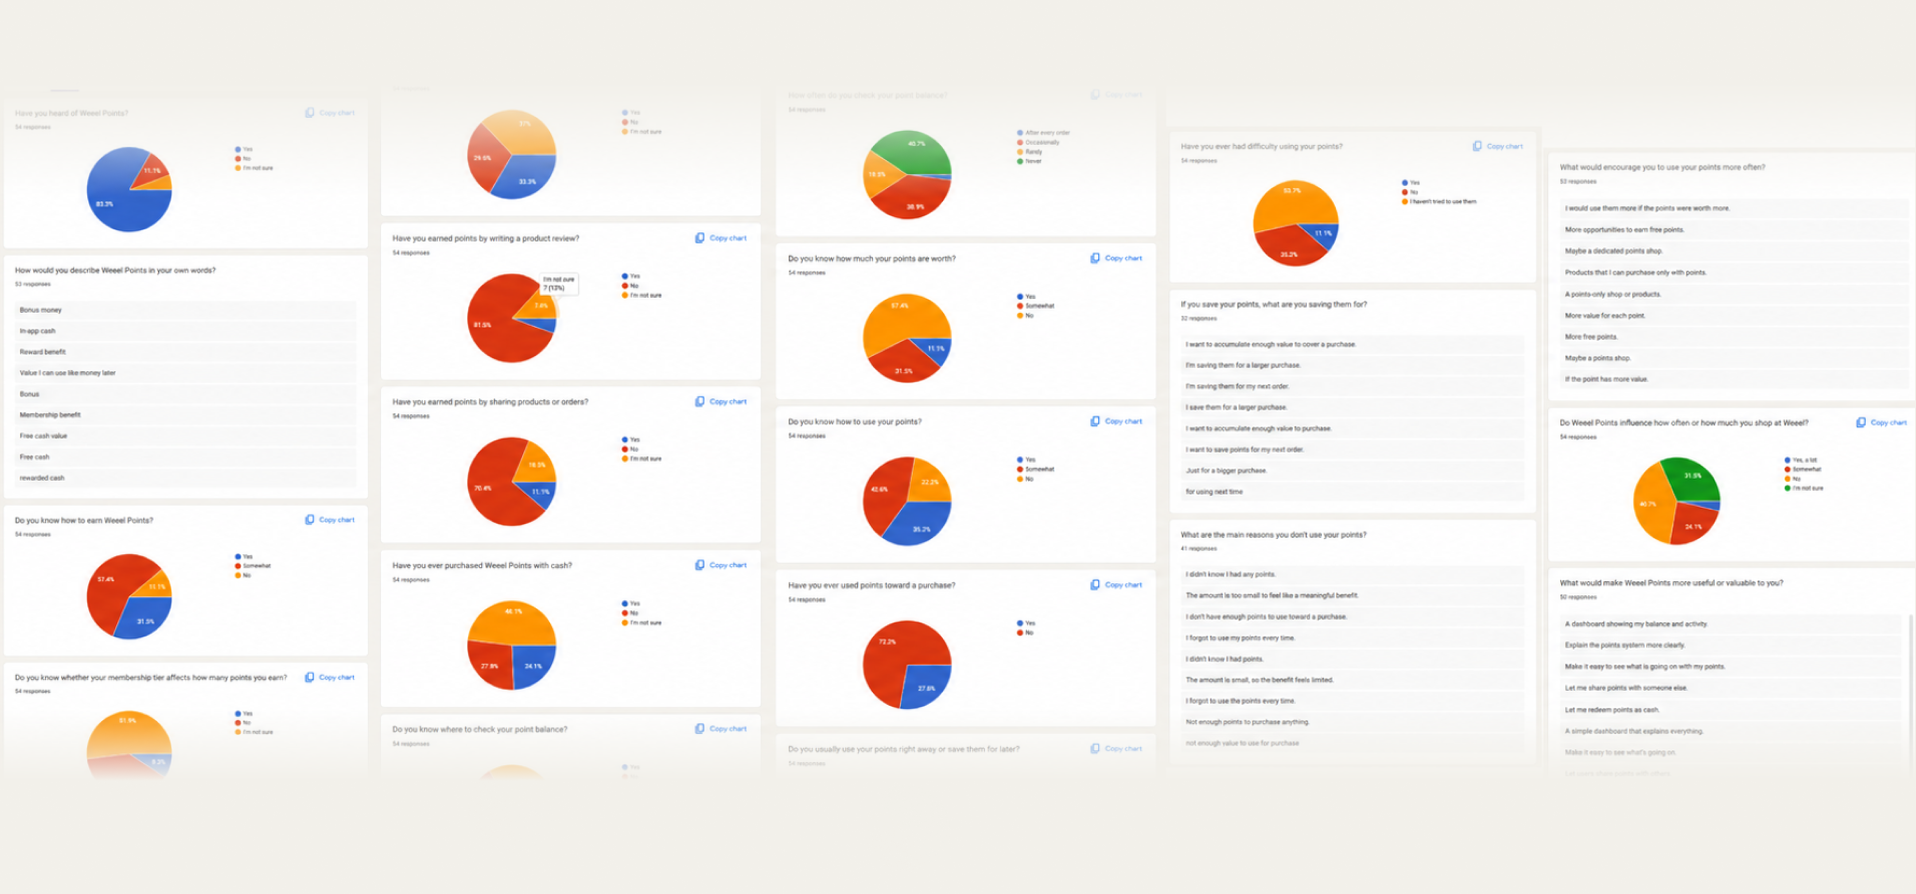
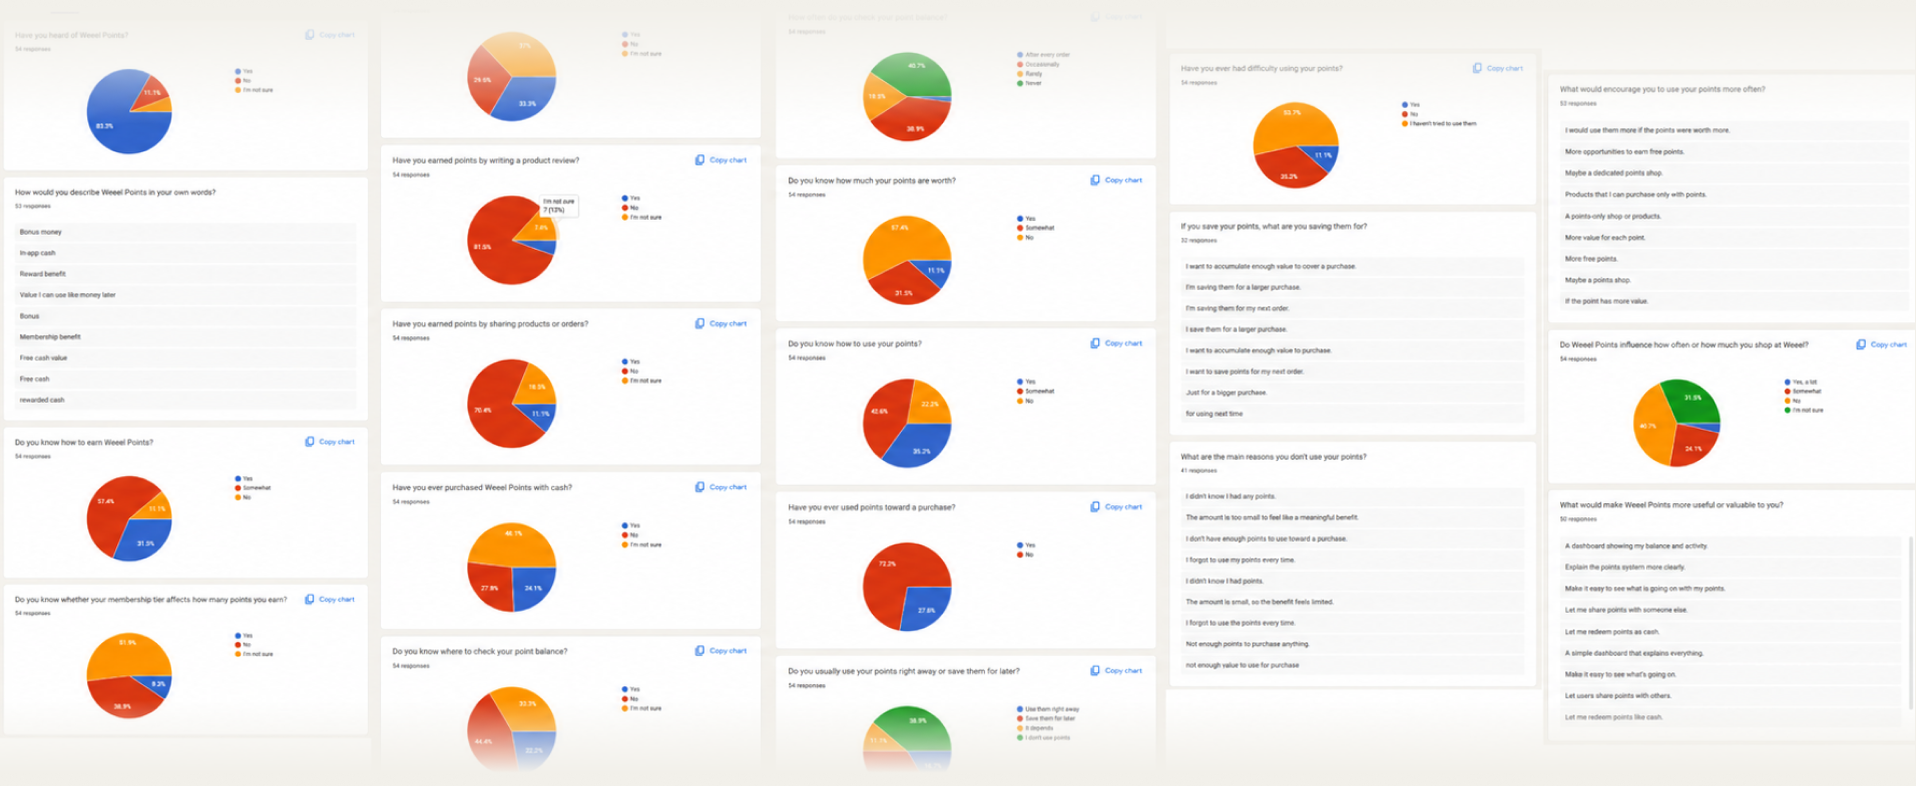
Update loyalty survey image and findings copy

diff --git a/src/App.jsx b/src/App.jsx
@@ -643,6 +643,11 @@ function LoyaltyCaseStudy({ item }) {
             alt="Survey results showing customer awareness and use of Weee! Points"
             className="mt-12 w-full"
           />
+          <p className="loyalty-copy mt-6 text-[#5f5e5a]">
+            *45 Users (83%) had heard of Weee! Points.<br />
+            *31 Users (57%) did not know how much their points were worth<br />
+            *39 Users (72%) had never used them toward a purchase.
+          </p>
         </LoyaltyEditorialSection>
 
         <LoyaltyEditorialSection label="Problem">
